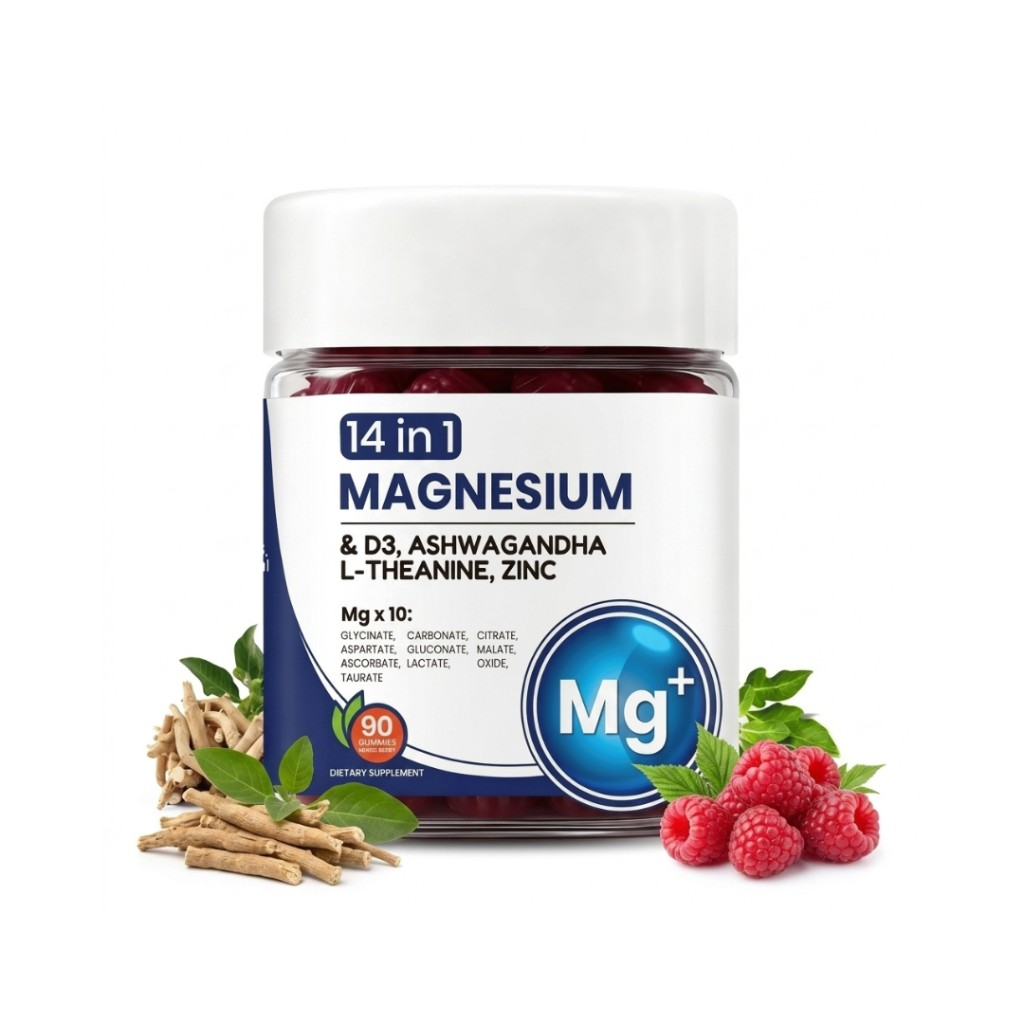
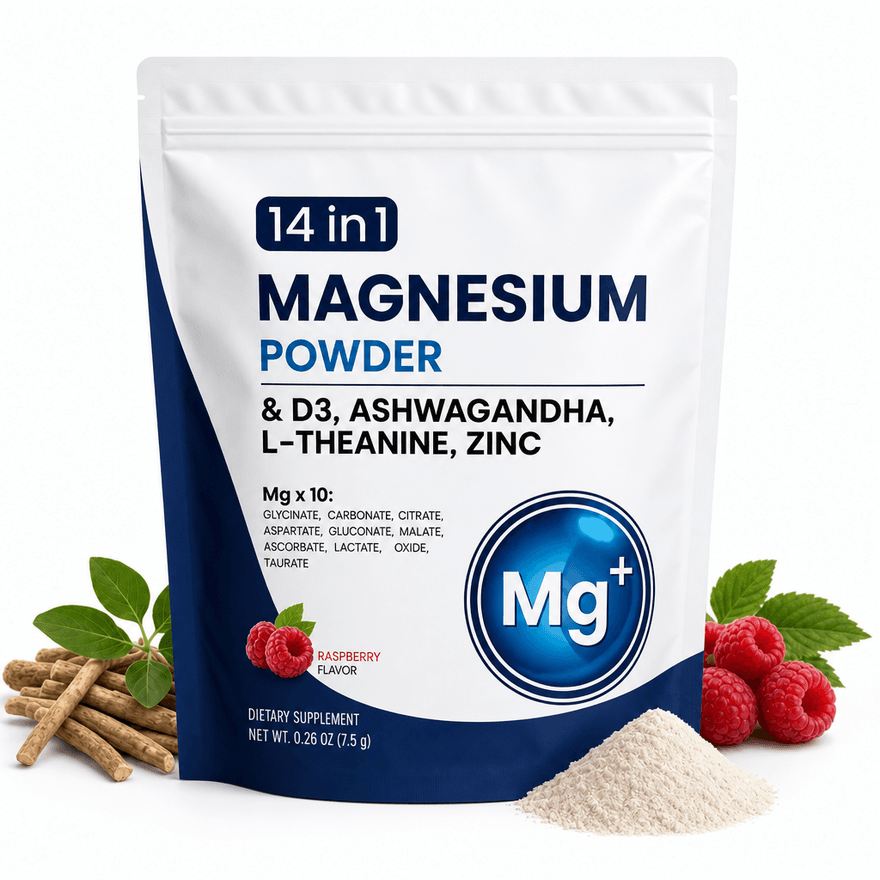
fix(home): restore Laylmag card packshot with dedicated home image
Use a compressed powder home card and object-contain so the white pouch stays visible on the homepage grid.

diff --git a/components/product/ProductCard.tsx b/components/product/ProductCard.tsx
@@ -109,8 +109,11 @@ export default function ProductCard({
 }: Props) {
   const accent = tone === 'store' ? STORE_BUTTON_COLOR : product.accentColor
   const isPowder = isPowderProduct(product)
-  const cardImage = useHomeCardImage && product.homeCardImage ? product.homeCardImage : product.coverImage
-  const showCardPhoto = !isPowder || Boolean(useHomeCardImage && product.homeCardImage)
+  const cardImage =
+    useHomeCardImage && product.homeCardImage ? product.homeCardImage : product.coverImage
+  // Powder cards used to show a placeholder; once a packshot exists, always show it.
+  const showCardPhoto =
+    !isPowder || Boolean(product.homeCardImage) || Boolean(useHomeCardImage && product.coverImage)
   const imageBanner = showNewImageBanner && product.isNew
   const cardImageNode = (
     <>
@@ -121,7 +124,7 @@ export default function ProductCard({
         alt={product.nameAr}
         fill
         sizes={layout === 'grid' ? '(max-width: 767px) 100vw, (max-width: 1199px) 50vw, 25vw' : '(max-width: 767px) 100vw, (max-width: 1200px) 45vw, 320px'}
-        className="object-cover object-center"
+        className={isPowder ? 'object-contain object-center p-3 sm:p-4' : 'object-cover object-center'}
       />
     </>
   )

diff --git a/lib/products.ts b/lib/products.ts
@@ -417,7 +417,7 @@ const ALL_PRODUCTS: Product[] = [
     coverImage: '/products/laylmag-powder.png',
     coverWidth: 1024,
     coverHeight: 1024,
-    homeCardImage: '/products/laylmag-powder.png',
+    homeCardImage: '/products/home-laylmag.jpg',
     painSectionImage: {
       src: '/products/laylmag-pain.jpg',
       width: 768,
